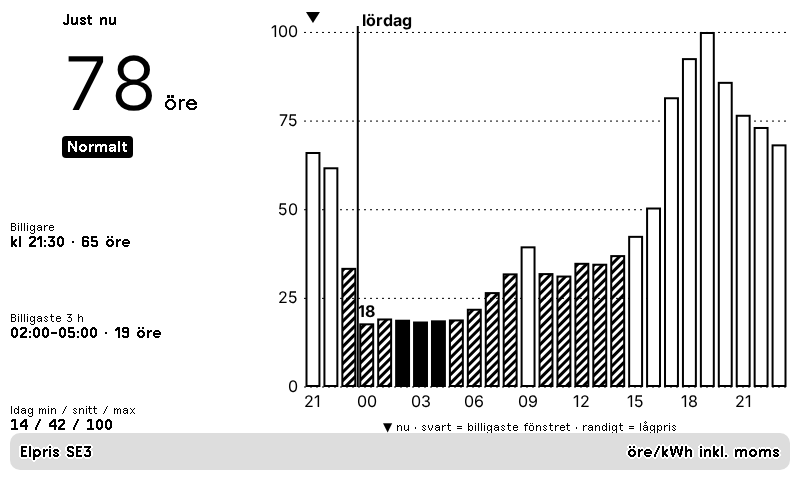
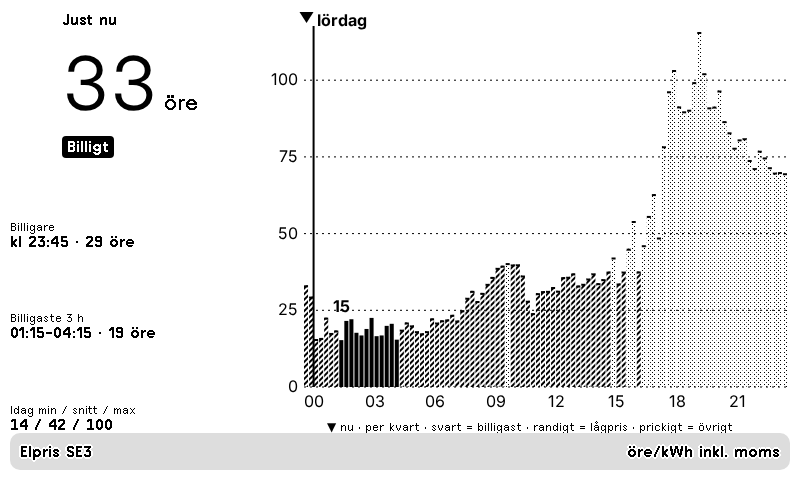
Show prices per 15 minutes instead of hourly averages
The chart draws one bar per quarter for the next 24 h (12 h in half_vertical)
and the cheapest window is searched on quarter boundaries. Bars use patterns
that stay distinct at ~5 px width on 1-bit screens.

diff --git a/README.md b/README.md
@@ -1,6 +1,6 @@
 # Elpris – billigaste timmarna
 
-Plugin för [TRMNL](https://trmnl.com) (e-pappersskärm). Spotpris på el för SE1–SE4 med priset just nu, när det blir billigare, det billigaste sammanhängande fönstret och ett stapeldiagram för i dag och i morgon.
+Plugin för [TRMNL](https://trmnl.com) (e-pappersskärm). Spotpris på el för SE1–SE4 med priset just nu, när det blir billigare, det billigaste sammanhängande fönstret och ett stapeldiagram med priset per kvart det kommande dygnet.
 
 ![Helskärm](preview/full.png)
 
